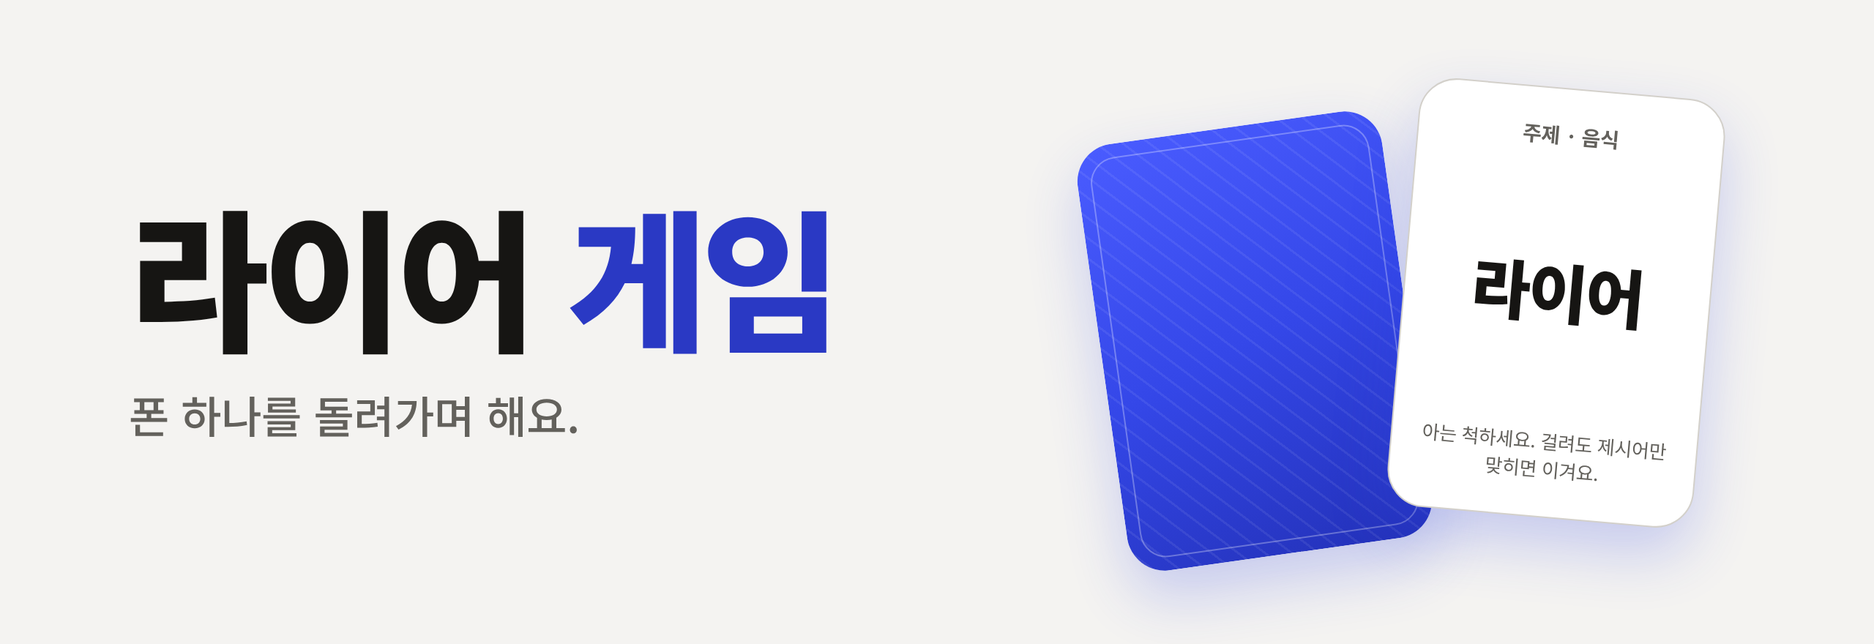
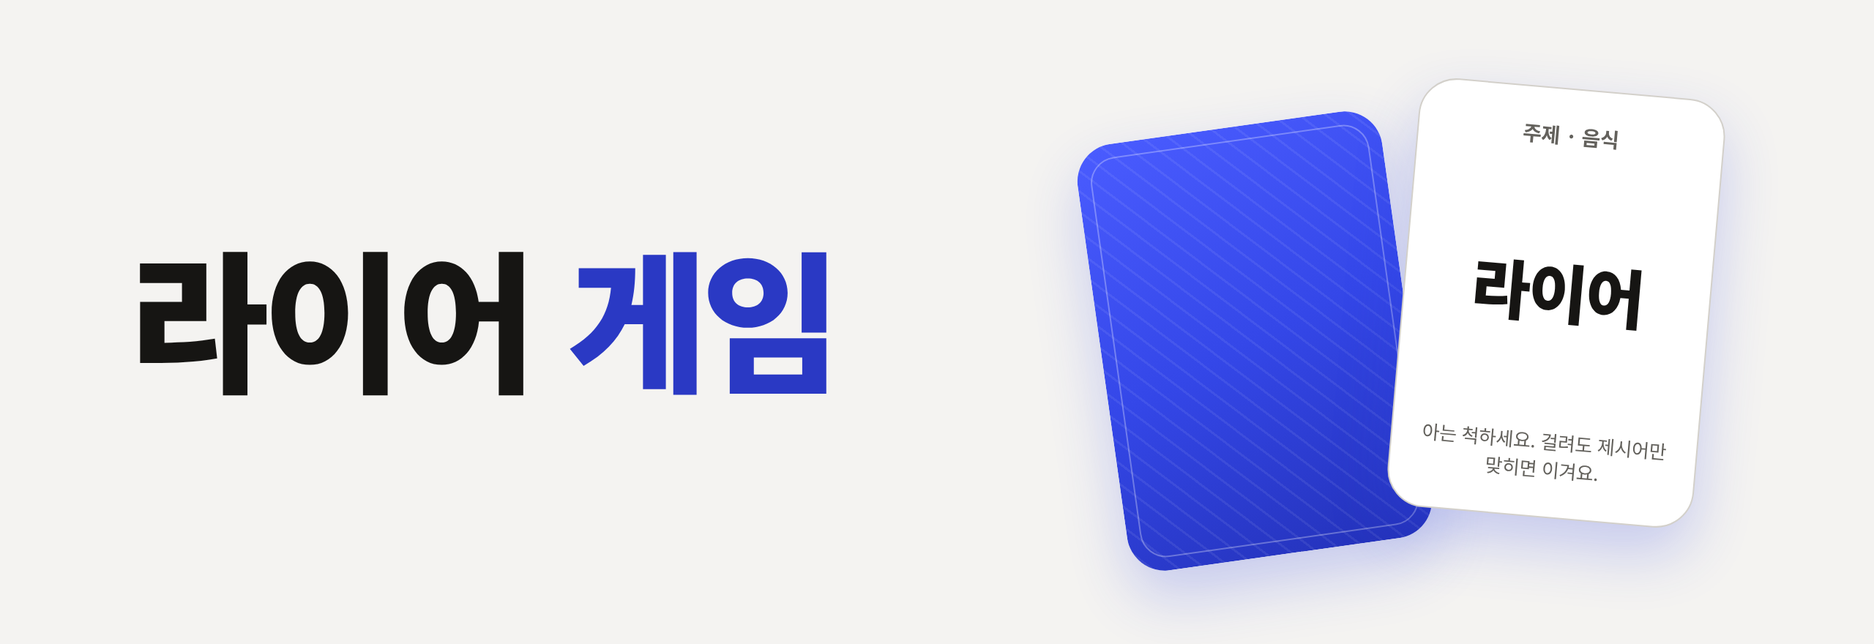
문구를 짧고 담백하게 정리하고 설명을 ⓘ로 옮김
- 제목 아래 태그라인과 꾸밈말, 수사적 질문, 느낌표 제거
- 규칙·주제·진행·점수 제목 옆 ⓘ에 설명을 모음 (아이콘은 작고 선명한 SVG로 교체)
- 용어 통일: 발언 -> 설명, 검거/걸리다 -> 잡다, 찍다 -> 투표
- 설정 라벨 정리: 설명 시간 / 설명 횟수 / 토론 시간
- 전환 애니메이션을 0.1초 이하로 단축

Claude-Session: https://claude.ai/code/session_01N2Wa5YXu4LxH5pypAMPZBK

Changed region(s): [[0.0625, 0.3068, 0.4688, 0.675]]

diff --git a/index.html b/index.html
@@ -100,8 +100,8 @@ textarea{min-height:92px;resize:vertical}
 .bar{position:sticky;bottom:0;margin:auto -20px -24px;padding:22px 20px max(18px,env(safe-area-inset-bottom));margin-bottom:calc(-1 * max(24px,env(safe-area-inset-bottom)));background:linear-gradient(to top,var(--bg) 86%,transparent);display:flex;flex-direction:column;gap:8px}
 .bar .note{text-align:center}
 .switch{display:inline-flex;align-items:center;gap:10px;background:none;border:0;padding:8px 0;min-height:44px;color:var(--sub);font-size:15px;font-weight:600}
-.switch i{position:relative;width:46px;height:28px;border-radius:99px;background:var(--edge);transition:background .15s}
-.switch i::after{content:"";position:absolute;top:3px;left:3px;width:22px;height:22px;border-radius:50%;background:#fff;box-shadow:0 1px 3px rgba(0,0,0,.3);transition:transform .15s}
+.switch i{position:relative;width:46px;height:28px;border-radius:99px;background:var(--edge);transition:background .08s}
+.switch i::after{content:"";position:absolute;top:3px;left:3px;width:22px;height:22px;border-radius:50%;background:#fff;box-shadow:0 1px 3px rgba(0,0,0,.3);transition:transform .08s}
 .switch[aria-checked=true] i{background:var(--accent)}
 .switch[aria-checked=true] i::after{transform:translateX(18px)}
 .head{display:flex;align-items:flex-start;justify-content:space-between;gap:12px}
@@ -190,16 +190,19 @@ textarea{min-height:92px;resize:vertical}
 .r .v{font-variant-numeric:tabular-nums;font-weight:700;white-space:nowrap}
 .r .m{grid-column:1/-1;font-size:13px;color:var(--sub)}
 .r.liar .v{color:var(--danger)} .r.spy .v{color:var(--accent-ink)}
-.hi{display:flex;align-items:center;gap:8px}
-.ib{position:relative;width:24px;height:24px;border-radius:50%;border:1.5px solid var(--sub);background:transparent;color:var(--sub);padding:0;font-family:Georgia,"Times New Roman",serif;font-style:italic;font-weight:700;font-size:15px;line-height:1;letter-spacing:0}
-.ib::after{content:"";position:absolute;inset:-11px}
-.ib[aria-expanded=true]{background:var(--ink);border-color:var(--ink);color:var(--bg)}
+.hi{display:flex;align-items:center;gap:6px}
+.ib{position:relative;width:18px;height:18px;border:0;background:none;padding:0;color:var(--ink);line-height:0}
+.ib svg{width:18px;height:18px;display:block}
+.ib::after{content:"";position:absolute;inset:-13px}
+.ib[aria-expanded=true]{color:var(--accent-ink)}
 .info{margin:0;display:flex;flex-direction:column;background:var(--fill);border-radius:14px;padding:4px 16px}
 .info>div{display:grid;grid-template-columns:minmax(0,1fr) auto;gap:12px;align-items:center;padding:12px 0;border-top:1px solid var(--line)}
 .info>div:first-child{border-top:0}
 .info dt{font-weight:600;font-size:15px}
 .info dt small{display:block;font-weight:400;font-size:13px;color:var(--sub);margin-top:2px}
 .info dd{margin:0;text-align:right;font-weight:700;font-size:15px;white-space:nowrap;font-variant-numeric:tabular-nums}
+@media (prefers-reduced-motion:no-preference){ .info{animation:pop .1s ease-out} }
+@keyframes pop{from{opacity:0;transform:translateY(-3px)}to{opacity:1;transform:none}}
 .gain{color:var(--accent-ink);background:var(--accent-soft);font-weight:700;font-size:13px;padding:2px 7px;border-radius:7px;margin-right:6px}
 .r .m .gain{margin:0 0 0 2px}
 </style>
@@ -347,7 +350,7 @@ function tick(){
   if(!T) return;
   var r=remain(), el=document.getElementById('timer');
   if(el){
-    el.querySelector('.num').textContent=r>0?fmt(r):'시간 끝!';
+    el.querySelector('.num').textContent=r>0?fmt(r):'시간 끝';
     el.querySelector('.track i').style.width=frac()+'%';
     el.classList.toggle('low',r>0&&r<=5);
     el.classList.toggle('done',r===0);
@@ -357,7 +360,7 @@ function tick(){
 function timerHTML(){
   if(!T) return '';
   var r=remain();
-  return '<div class="timer'+(r===0?' done':(r<=5?' low':''))+'" id="timer" role="timer"><div class="num">'+(r>0?fmt(r):'시간 끝!')+'</div><div class="track"><i style="width:'+frac()+'%"></i></div></div>';
+  return '<div class="timer'+(r===0?' done':(r<=5?' low':''))+'" id="timer" role="timer"><div class="num">'+(r>0?fmt(r):'시간 끝')+'</div><div class="track"><i style="width:'+frac()+'%"></i></div></div>';
 }
 function initAudio(){ try{ if(!audio){ var C=window.AudioContext||window.webkitAudioContext; if(C) audio=new C(); } if(audio&&audio.state==='suspended') audio.resume(); }catch(e){} }
 function beep(){
@@ -448,61 +451,84 @@ function summary(){
 }
 function vSetup(){
   var n=S.players.length, mL=maxLiars(n,S.spy), cats=allCats(), hasScore=S.players.some(function(p){return p.score;});
-  var h='<header><div class="head"><h1 class="title" tabindex="-1">라이어 <em>게임</em></h1><button type="button" class="switch" role="switch" aria-checked="'+isDark()+'" data-a="theme">다크 모드<i></i></button></div><p class="lead">폰 하나를 돌려가며 해요.</p></header>';
+  var h='<header><div class="head"><h1 class="title" tabindex="-1">라이어 <em>게임</em></h1><button type="button" class="switch" role="switch" aria-checked="'+isDark()+'" data-a="theme">다크 모드<i></i></button></div></header>';
 
   h+='<section class="sec"><div class="line"><h2>인원</h2><div class="count"><button type="button" class="sq" data-a="pc" data-d="-1" aria-label="한 명 줄이기"'+(n<=MINP?' disabled':'')+'>−</button><b>'+n+'명</b><button type="button" class="sq" data-a="pc" data-d="1" aria-label="한 명 늘리기"'+(n>=MAXP?' disabled':'')+'>+</button></div></div>';
   if(S.namesOpen) h+='<div class="names">'+S.players.map(function(p,i){
       return '<input type="text" id="p'+i+'" data-pi="'+i+'" maxlength="8" value="'+esc(p.name)+'" placeholder="'+(i+1)+'번" aria-label="'+(i+1)+'번 이름">';
-    }).join('')+'</div><p class="note">앉은 순서대로 적어 주세요. 비워 두면 번호로 불러요.</p>';
+    }).join('')+'</div><p class="note">앉은 순서대로 적어 주세요.</p>';
   else h+='<div class="line"><span class="note">'+S.players.map(function(_,i){return nm(i);}).join(', ')+'</span><button type="button" class="text" data-a="names">이름 적기</button></div>';
   h+='</section>';
 
-  h+='<section class="sec"><h2>규칙</h2>'+
+  h+='<section class="sec">'+head('rules','규칙')+infoBox('rules')+
     '<div class="line"><span>모드</span>'+seg('mode',[['basic','기본'],['fool','바보']],S.mode)+'</div>'+
-    '<p class="note">'+(S.mode==='basic'?'라이어는 주제만 알아요.':'라이어는 다른 단어를 받고, 자기가 라이어인 줄 몰라요.')+'</p>'+
     '<div class="line"><span>라이어</span><div class="count"><button type="button" class="sq" data-a="liars" data-d="-1" aria-label="라이어 줄이기"'+(S.liars<=1?' disabled':'')+'>−</button><b>'+S.liars+'명</b><button type="button" class="sq" data-a="liars" data-d="1" aria-label="라이어 늘리기"'+(S.liars>=mL?' disabled':'')+'>+</button></div></div>'+
-    (S.liars+S.spy>=n?'<p class="warn">시민이 한 명도 없는 판이에요. 점수는 안 매겨요.</p>':(S.mode==='fool'&&S.liars*2>=n?'<p class="warn">라이어가 절반 이상이면 가짜 단어가 다수가 돼요.</p>':''))+
+    (S.liars+S.spy>=n?'<p class="warn">시민이 없어 점수를 매기지 않아요.</p>':(S.mode==='fool'&&S.liars*2>=n?'<p class="warn">라이어가 절반 이상이면 누가 라이어인지 가리기 어려워요.</p>':''))+
     '<div class="line"><span>스파이</span><div class="count"><button type="button" class="sq" data-a="spies" data-d="-1" aria-label="스파이 줄이기"'+(S.spy<=0?' disabled':'')+'>−</button><b>'+S.spy+'명</b><button type="button" class="sq" data-a="spies" data-d="1" aria-label="스파이 늘리기"'+(S.spy>=n-S.liars?' disabled':'')+'>+</button></div></div>'+
-    (S.spy?'<p class="note">스파이는 제시어를 알지만 라이어 편이에요.</p>':'')+'</section>';
+    '</section>';
 
   var names=Object.keys(cats).sort(function(x,y){ return (S.custom[y]?1:0)-(S.custom[x]?1:0); });
   var onN=names.filter(function(c){return S.cats.indexOf(c)>=0;}).length;
-  h+='<section class="sec"><div class="line"><h2>주제</h2><button type="button" class="text" data-a="cats-toggle">'+(S.catsOpen?'접기':'고르기')+'</button></div>'+
-    '<p class="note">'+names.length+'개 중 '+(onN?onN+'개에서':'전부에서')+' 무작위로 나와요.</p>';
+  h+='<section class="sec"><div class="line">'+head('topics','주제')+'<button type="button" class="text" data-a="cats-toggle">'+(S.catsOpen?'접기':'고르기')+'</button></div>'+infoBox('topics')+
+    '<p class="note">'+(onN?names.length+'개 중 '+onN+'개 선택':'선택한 주제가 없으면 전체에서 나와요.')+'</p>';
   if(S.catsOpen) h+='<div class="line end"><button type="button" class="text" data-a="cats-all">전체 선택</button><button type="button" class="text" data-a="cats-none">전체 해제</button></div><div class="tiles">'+names.map(function(c){
     var on=S.cats.indexOf(c)>=0, cu=!!S.custom[c];
     return '<span class="tile'+(on?' on':'')+'"><button type="button" data-a="cat" data-c="'+esc(c)+'" aria-pressed="'+on+'">'+(on?'✓ ':'')+esc(c)+'</button>'+(cu?'<button type="button" class="rm" data-a="del-cat" data-c="'+esc(c)+'" aria-label="'+esc(c)+' 지우기">×</button>':'')+'</span>';
   }).join('')+'</div>';
   if(S.catOpen) h+='<div class="form">'+
-    '<input type="text" id="ccName" maxlength="14" placeholder="주제 (예: 우리 과 교수님)" value="'+esc(S.draft.name)+'" aria-label="주제 이름">'+
-    (AI?'<button type="button" class="btn sm" data-a="ai-fill"'+(S.aiBusy?' disabled':'')+'>'+(S.aiBusy?'AI가 채우는 중…':'AI로 단어 채우기')+'</button>':'<p class="note">AI로 단어 채우기는 Claude에서 열었을 때만 쓸 수 있어요.</p>')+
-    '<textarea id="ccWords" placeholder="단어를 쉼표나 줄바꿈으로 나눠서 4개 이상" aria-label="단어 목록">'+esc(S.draft.words)+'</textarea>'+
+    '<input type="text" id="ccName" maxlength="14" placeholder="주제 이름 (예: 우리 과 교수님)" value="'+esc(S.draft.name)+'" aria-label="주제 이름">'+
+    (AI?'<button type="button" class="btn sm" data-a="ai-fill"'+(S.aiBusy?' disabled':'')+'>'+(S.aiBusy?'채우는 중…':'AI로 단어 채우기')+'</button>':'')+
+    '<textarea id="ccWords" placeholder="단어 4개 이상, 쉼표나 줄바꿈으로 구분" aria-label="단어 목록">'+esc(S.draft.words)+'</textarea>'+
     (S.draftErr?'<p class="warn">'+esc(S.draftErr)+'</p>':'')+
-    '<button type="button" class="btn sm" data-a="add-cat">주제 저장</button><button type="button" class="text" data-a="cat-close">닫기</button></div>';
-  else h+='<button type="button" class="btn sm" data-a="cat-open">+ 주제 직접 만들기'+(AI?' · AI로 채우기':'')+'</button>';
+    '<button type="button" class="btn sm" data-a="add-cat">저장</button><button type="button" class="text" data-a="cat-close">닫기</button></div>';
+  else h+='<button type="button" class="btn sm" data-a="cat-open">+ 주제 만들기</button>';
   h+='</section>';
 
-  h+='<section class="sec"><h2>시간</h2>'+
-    '<div class="line"><span>한 사람 발언</span>'+seg('speakSec',[[0,'끔'],[20,'20초'],[30,'30초'],[45,'45초'],[60,'60초']],S.speakSec)+'</div>'+
-    '<div class="line"><span>설명 바퀴</span>'+seg('laps',[[1,'1바퀴'],[2,'2바퀴']],S.laps)+'</div>'+
-    '<div class="line"><span>토론</span>'+seg('discussSec',[[0,'끔'],[60,'1분'],[120,'2분'],[180,'3분']],S.discussSec)+'</div></section>';
+  h+='<section class="sec">'+head('time','진행')+infoBox('time')+
+    '<div class="line"><span>설명 시간</span>'+seg('speakSec',[[0,'없음'],[20,'20초'],[30,'30초'],[45,'45초'],[60,'60초']],S.speakSec)+'</div>'+
+    '<div class="line"><span>설명 횟수</span>'+seg('laps',[[1,'1바퀴'],[2,'2바퀴']],S.laps)+'</div>'+
+    '<div class="line"><span>토론 시간</span>'+seg('discussSec',[[0,'생략'],[60,'1분'],[120,'2분'],[180,'3분']],S.discussSec)+'</div></section>';
 
-  h+='<section class="sec"><div class="line">'+scoreHead()+(hasScore?'<button type="button" class="text" data-a="reset-score">'+(S.quit?'정말 지울까요? 한 번 더':'점수 지우기')+'</button>':'')+'</div>'+scoreInfo()+(hasScore?scoreRows(null):'<p class="note">아직 점수가 없어요. 한 판 끝나면 여기에 쌓여요.</p>')+'</section>';
+  h+='<section class="sec"><div class="line">'+head('score','점수')+(hasScore?'<button type="button" class="text" data-a="reset-score">'+(S.quit?'한 번 더 누르면 지워요':'점수 지우기')+'</button>':'')+'</div>'+infoBox('score')+(hasScore?scoreRows(null):'<p class="note">아직 점수가 없어요.</p>')+'</section>';
 
   h+='<div class="bar"><p class="note">'+summary()+'</p><button type="button" class="btn go" data-a="start">시작</button></div>';
   return h;
 }
-function scoreHead(){
-  return '<h2 class="hi">점수<button type="button" class="ib" data-a="info" aria-expanded="'+!!S.info+'" aria-label="점수 계산 방법 '+(S.info?'닫기':'보기')+'">i</button></h2>';
+var INFO={
+  rules:[
+    ['기본 모드','라이어는 주제만 알고 제시어는 몰라요.'],
+    ['바보 모드','라이어는 다른 단어를 받고, 자기가 라이어인 줄 몰라요.'],
+    ['라이어','제시어를 몰라요. 잡혀도 제시어를 맞히면 이겨요.'],
+    ['스파이','제시어를 알지만 라이어 편이에요. 라이어가 누구인지는 몰라요.'],
+    ['투표','표를 가장 많이 받은 사람의 정체를 공개해요. 동점이면 동점인 사람을 두고 다시 투표하고, 다시 동점이면 라이어가 이겨요.']
+  ],
+  topics:[
+    ['주제 고르기','판마다 선택한 주제 중 하나가 무작위로 나와요.'],
+    ['주제 만들기','주제 이름과 단어 4개 이상을 적어요. 이 폰에 저장돼요.'],
+    ['AI로 단어 채우기','주제 이름을 적으면 단어를 채워요. Claude에서 열었을 때만 쓸 수 있어요.']
+  ],
+  time:[
+    ['설명 시간','한 명이 설명하는 시간이에요. 끝나면 소리와 진동으로 알려요.'],
+    ['설명 횟수','한 사람이 설명하는 횟수예요.'],
+    ['토론 시간','설명이 끝난 뒤 투표 전까지의 시간이에요.']
+  ],
+  score:[
+    ['시민 승리','라이어를 잡았고, 라이어가 제시어를 틀렸을 때','시민 +1'],
+    ['라이어 역전승','라이어가 잡혔지만 제시어를 맞혔을 때','라이어 +1<br>스파이 +1'],
+    ['라이어 승리','라이어가 아닌 사람을 지목했거나, 재투표도 동점일 때','라이어 +2<br>스파이 +1'],
+    ['시민이 없는 판','라이어와 스파이뿐일 때','없음'],
+    ['점수 보관','이 폰에 저장돼요.']
+  ]
+};
+function head(key,title){
+  var on=S.info===key;
+  return '<h2 class="hi">'+title+'<button type="button" class="ib" data-a="info" data-k="'+key+'" aria-expanded="'+on+'" aria-label="'+title+' 설명 '+(on?'닫기':'보기')+'"><svg viewBox="0 0 18 18" aria-hidden="true"><circle cx="9" cy="9" r="7.6" fill="none" stroke="currentColor" stroke-width="1.6"/><circle cx="9" cy="5.6" r="1.1" fill="currentColor"/><path d="M9 8.3v4.6" stroke="currentColor" stroke-width="1.7" stroke-linecap="round"/></svg></button></h2>';
 }
-function scoreInfo(){
-  if(!S.info) return '';
-  return '<dl class="info">'+
-    '<div><dt>시민 승리<small>라이어를 잡았고, 라이어가 제시어를 틀렸을 때</small></dt><dd>시민 +1</dd></div>'+
-    '<div><dt>라이어 역전승<small>라이어가 잡혔지만 제시어를 맞혔을 때</small></dt><dd>라이어 +1<br>스파이 +1</dd></div>'+
-    '<div><dt>라이어 승리<small>라이어가 아닌 사람을 지목했거나, 재투표도 동점일 때</small></dt><dd>라이어 +2<br>스파이 +1</dd></div>'+
-    '<div><dt>시민이 없는 판<small>라이어와 스파이뿐이면 점수를 매기지 않아요</small></dt><dd>없음</dd></div>'+
-    '</dl><p class="note">점수는 이 폰에 쌓이고, 점수 지우기를 누르기 전까지 남아요.</p>';
+function infoBox(key){
+  if(S.info!==key) return '';
+  return '<dl class="info">'+INFO[key].map(function(r){
+    return '<div><dt>'+r[0]+'<small>'+r[1]+'</small></dt>'+(r[2]?'<dd>'+r[2]+'</dd>':'')+'</div>';
+  }).join('')+'</dl>';
 }
 function scoreRows(deltas){
   var rows=S.players.map(function(p,i){return {i:i,s:p.score||0};}).sort(function(a,b){return b.s-a.s||a.i-b.i;});
@@ -513,56 +539,56 @@ function scoreRows(deltas){
 function wordSize(w){ return w.length<=4?'':(w.length<=7?' m':' s'); }
 function cardFace(i){
   var r=R.roles[i], fool=S.mode==='fool', kind='주제 · '+esc(R.cat);
-  if(r==='liar'&&!fool) return '<div class="kind">'+kind+'</div><div class="word">라이어</div><div class="tip">아는 척하세요. 걸려도 제시어만 맞히면 이겨요.</div>';
-  if(r==='spy') return '<div class="kind">'+kind+' · 스파이</div><div class="word'+wordSize(R.word)+'">'+esc(R.word)+'</div><div class="tip">라이어 편이에요. 라이어가 안 잡히게 도와주세요.</div>';
+  if(r==='liar'&&!fool) return '<div class="kind">'+kind+'</div><div class="word">라이어</div><div class="tip">잡혀도 제시어를 맞히면 이겨요.</div>';
+  if(r==='spy') return '<div class="kind">'+kind+' · 스파이</div><div class="word'+wordSize(R.word)+'">'+esc(R.word)+'</div><div class="tip">라이어 편이에요.</div>';
   var w=(r==='liar')?R.fake:R.word;
-  return '<div class="kind">'+kind+'</div><div class="word'+wordSize(w)+'">'+esc(w)+'</div><div class="tip">'+(fool?'누군가는 다른 단어를 받았어요. 나일 수도 있어요.':'라이어는 모르게, 우리 편은 알게.')+'</div>';
+  return '<div class="kind">'+kind+'</div><div class="word'+wordSize(w)+'">'+esc(w)+'</div><div class="tip">'+(fool?'내가 라이어일 수도 있어요.':'')+'</div>';
 }
 function vReveal(){
   var i=R.ri, n=S.players.length, last=i===n-1, ready='다 봤어요';
   return topBar(prog('카드 확인',i+1,n))+
     '<div class="stage mid"><h1 class="name" tabindex="-1">'+nm(i)+'</h1>'+
     '<div class="card" id="peek" role="button" tabindex="0" aria-label="누르고 있는 동안 카드가 보여요">'+
-      '<div class="back"><b>꾹 누르면<br>보여요</b><span>손을 떼면 다시 덮여요</span></div>'+
+      '<div class="back"><b>누르고 있는 동안<br>보여요</b></div>'+
       '<div class="face">'+cardFace(i)+'</div></div>'+
     '<p class="note">'+jo(i,'만','만')+' 보세요.</p></div>'+
-    '<div class="acts"><button type="button" class="btn" id="seenBtn" data-a="next-reveal" data-ready="'+ready+'"'+(R.seen?'':' disabled')+'>'+(R.seen?ready:'카드를 먼저 확인해요')+'</button>'+
-    '<p class="note">'+(last?'누른 다음 폰을 가운데 두세요.':'누른 다음 '+jo(i+1,'에게','에게')+' 넘겨요.')+'</p></div>';
+    '<div class="acts"><button type="button" class="btn" id="seenBtn" data-a="next-reveal" data-ready="'+ready+'"'+(R.seen?'':' disabled')+'>'+(R.seen?ready:'카드를 먼저 보세요')+'</button>'+
+    '<p class="note">'+(last?'폰을 가운데에 두세요.':jo(i+1,'에게','에게')+' 넘겨 주세요.')+'</p></div>';
 }
 function orderHTML(cur){
   return '<p class="order">'+R.order.map(function(p){ return cur===p?'<b>'+nm(p)+'</b>':nm(p); }).join(' → ')+'</p>';
 }
 function vReady(){
   var p=R.order[0];
-  return topBar(esc(R.cat))+'<div class="stage"><div><h1 class="name xl" tabindex="-1">'+nm(p)+'부터</h1><p class="lead">주제는 '+esc(R.cat)+'. 한 문장씩 돌아가며 설명해요.</p></div>'+orderHTML(p)+'</div>'+
+  return topBar(esc(R.cat))+'<div class="stage"><div><h1 class="name xl" tabindex="-1">'+nm(p)+'부터</h1><p class="lead">한 문장씩 돌아가며 설명해요.</p></div>'+orderHTML(p)+'</div>'+
     '<div class="acts"><button type="button" class="btn go" data-a="begin">설명 시작</button></div>';
 }
 function vSpeak(){
   var p=R.turns[R.ti], last=R.ti===R.turns.length-1, n=S.players.length;
   return topBar(prog(R.cat+(S.laps>1?' · '+(Math.floor(R.ti/n)+1)+'바퀴':''),R.ti+1,R.turns.length))+
-    '<div class="stage"><div><h1 class="name" tabindex="-1">'+nm(p)+'</h1><p class="lead">한 문장으로 설명해요.</p></div>'+timerHTML()+orderHTML(p)+'</div>'+
+    '<div class="stage"><div><h1 class="name" tabindex="-1">'+nm(p)+'</h1></div>'+timerHTML()+orderHTML(p)+'</div>'+
     '<div class="acts"><button type="button" class="btn" data-a="next-speak">'+(last?(S.discussSec?'토론 시작':'투표 시작'):'다음 · '+nm(R.turns[R.ti+1]))+'</button>'+
-    '<div class="row">'+(R.ti>0?'<button type="button" class="text" data-a="prev-speak">이전 사람으로</button>':'<span></span>')+(last?'':'<button type="button" class="text" data-a="skip-vote">'+(S.skip?'남은 사람 건너뛸까요? 한 번 더':'바로 투표')+'</button>')+'</div></div>';
+    '<div class="row">'+(R.ti>0?'<button type="button" class="text" data-a="prev-speak">이전</button>':'<span></span>')+(last?'':'<button type="button" class="text" data-a="skip-vote">'+(S.skip?'한 번 더 누르면 투표':'바로 투표')+'</button>')+'</div></div>';
 }
 function vDiscuss(){
-  return topBar(esc(R.cat))+'<div class="stage"><div><h1 class="name" tabindex="-1">누가 라이어일까?</h1><p class="lead">충분히 떠들었으면 투표해요.</p></div>'+timerHTML()+'</div>'+
+  return topBar(esc(R.cat))+'<div class="stage"><div><h1 class="name" tabindex="-1">토론</h1></div>'+timerHTML()+'</div>'+
     '<div class="acts"><button type="button" class="btn go" data-a="to-vote">투표 시작</button></div>';
 }
 function vVote(){
   var v=R.v, i=v.vi, n=S.players.length, opts;
   var h=topBar(prog(v.round===2?'재투표':'투표',i+1,n))+'<div class="stage"><h1 class="name" tabindex="-1">'+nm(i)+'</h1>';
-  if(!v.open) return h+'<p class="lead">'+jo(i,'에게','에게')+' 폰을 넘겨 주세요. 누구를 찍었는지는 끝나고 공개돼요.</p></div>'+
-    '<div class="acts"><button type="button" class="btn" data-a="open-vote">'+jo(i,'이에요','예요')+', 투표할게요</button></div>';
+  if(!v.open) return h+'<p class="lead">'+jo(i,'에게','에게')+' 폰을 넘겨 주세요.'+(i===0?' 누구에게 투표했는지는 끝나고 공개돼요.':'')+'</p></div>'+
+    '<div class="acts"><button type="button" class="btn" data-a="open-vote">투표하기</button></div>';
   opts=voteOptions(i);
-  return h+'<p class="lead">'+(v.round===2?'동점인 사람 중에 ':'')+'누가 라이어 같아요?</p><div class="opts'+(opts.length>5?' two':'')+'">'+opts.map(function(j){
+  return h+'<p class="lead">'+(v.round===2?'동점인 사람 중에서 고르세요.':'라이어를 고르세요.')+'</p><div class="opts'+(opts.length>5?' two':'')+'">'+opts.map(function(j){
       return '<button type="button" class="opt" data-a="pick" data-j="'+j+'" aria-pressed="'+(v.pick===j)+'">'+nm(j)+'</button>';
-    }).join('')+'</div></div><div class="acts stick"><button type="button" class="btn" data-a="cast"'+(v.pick===null?' disabled':'')+'>'+(v.pick===null?'한 명을 골라요':nm(v.pick)+'에게 투표')+'</button></div>';
+    }).join('')+'</div></div><div class="acts stick"><button type="button" class="btn" data-a="cast"'+(v.pick===null?' disabled':'')+'>'+(v.pick===null?'투표':nm(v.pick)+'에게 투표')+'</button></div>';
 }
 function vTally(){
   var t=R.tally, n=S.players.length, tie=t.top.length>1;
   var rows=S.players.map(function(_,i){return i;}).filter(function(i){return t.counts[i]>0;}).sort(function(a,b){return t.counts[b]-t.counts[a]||a-b;});
-  var h=topBar('투표 결과')+'<div class="stage"><div><h1 class="name" tabindex="-1">'+(tie?'동점!':nm(R.accused)+' 지목')+'</h1><p class="lead">'+
-    (tie?(t.round===1?'동점인 사람끼리 한 번 더 투표해요.':'또 동점이에요. 라이어가 빠져나갔어요.'):'진짜 라이어일까요?')+'</p></div>'+
+  var h=topBar('투표 결과')+'<div class="stage"><div><h1 class="name" tabindex="-1">'+(tie?'동점':nm(R.accused)+' 지목')+'</h1>'+
+    (tie?'<p class="lead">'+(t.round===1?'동점인 사람을 두고 다시 투표해요.':'다시 동점이라 라이어가 이겼어요.')+'</p>':'')+'</div>'+
     '<div class="tally">'+rows.map(function(i){
       return '<div class="trow'+(t.top.indexOf(i)>=0?' top':'')+'"><span class="n">'+nm(i)+'</span><span class="c">'+t.counts[i]+'표</span><div class="b"><i style="width:'+(t.counts[i]/n*100)+'%"></i></div></div>';
     }).join('')+'</div></div><div class="acts">';
@@ -573,26 +599,26 @@ function vTally(){
 }
 function vGuess(){
   var g=R.g, a=R.accused;
-  var h=topBar('라이어 검거')+'<div class="stage"><h1 class="name" tabindex="-1">'+jo(a,'은','는')+' 라이어!</h1>';
-  if(!g.open) return h+'<p class="lead">아직 안 끝났어요. 제시어를 맞히면 역전이에요. '+jo(a,'에게','에게')+' 폰을 넘겨 주세요.</p></div>'+
+  var h=topBar('정체 공개')+'<div class="stage"><h1 class="name" tabindex="-1">'+jo(a,'은','는')+' 라이어</h1>';
+  if(!g.open) return h+'<p class="lead">제시어를 맞히면 라이어가 이겨요. '+jo(a,'에게','에게')+' 폰을 넘겨 주세요.</p></div>'+
     '<div class="acts"><button type="button" class="btn go" data-a="open-guess">제시어 맞히기</button></div>';
-  return h+'<p class="lead">'+esc(R.cat)+' 중에 뭐였을까요? 기회는 한 번이에요.</p><div class="opts two words">'+R.words.map(function(w,k){
+  return h+'<p class="lead">제시어를 고르세요. 기회는 한 번이에요.</p><div class="opts two words">'+R.words.map(function(w,k){
       return '<button type="button" class="opt" data-a="gpick" data-k="'+k+'" aria-pressed="'+(g.pick===k)+'">'+esc(w)+'</button>';
-    }).join('')+'</div></div><div class="acts stick"><button type="button" class="btn go" data-a="gcast"'+(g.pick===null?' disabled':'')+'>'+(g.pick===null?'단어를 골라요':esc(R.words[g.pick])+', 확정')+'</button></div>';
+    }).join('')+'</div></div><div class="acts stick"><button type="button" class="btn go" data-a="gcast"'+(g.pick===null?' disabled':'')+'>'+(g.pick===null?'확정':esc(R.words[g.pick])+' 확정')+'</button></div>';
 }
 function vResult(){
   var o=R.outcome, a=R.accused, title, sub, roleName={liar:'라이어',spy:'스파이',citizen:'시민'};
-  if(!R.citizens&&R.roles.every(function(r){return r==='liar';})){ title='전원 라이어!'; sub='시민은 처음부터 없었어요.'+(o==='steal'?' 그 와중에 '+jo(a,'이','가')+' 제시어를 맞혔어요.':''); }
-  else if(o==='caught'){ title=R.citizens?'시민 승리':'라이어 검거'; sub=nm(a)+' 검거 완료. 제시어도 틀렸어요.'+(R.g&&R.g.pick!==null?' 고른 단어는 '+esc(R.words[R.g.pick])+'.':''); }
+  if(!R.citizens&&R.roles.every(function(r){return r==='liar';})){ title='전원 라이어'; sub=(o==='steal'?jo(a,'이','가')+' 제시어를 맞혔어요.':''); }
+  else if(o==='caught'){ title=R.citizens?'시민 승리':'라이어 패배'; sub=jo(a,'이','가')+' 잡혔고 제시어도 틀렸어요.'+(R.g&&R.g.pick!==null?' 고른 단어: '+esc(R.words[R.g.pick]):''); }
   else if(o==='steal'){ title='라이어 역전승'; sub=jo(a,'이','가')+' 잡혔지만 제시어를 맞혔어요.'; }
-  else { title='라이어 승리'; sub=a===null?'아무도 못 잡았어요.':jo(a,'은','는')+' '+(R.roles[a]==='citizen'?'시민이었어요.':'스파이였어요.'); }
-  var h='<div><h1 class="name xl '+(o==='caught'?'town':'liar')+'" tabindex="-1">'+title+'</h1><p class="lead">'+sub+'</p></div>';
+  else { title='라이어 승리'; sub=a===null?'재투표도 동점이었어요.':jo(a,'은','는')+' '+(R.roles[a]==='citizen'?'시민이었어요.':'스파이였어요.'); }
+  var h='<div><h1 class="name xl '+(o==='caught'?'town':'liar')+'" tabindex="-1">'+title+'</h1>'+(sub?'<p class="lead">'+sub+'</p>':'')+'</div>';
   h+='<div class="answer"><div><span>'+esc(R.cat)+'</span><b>'+esc(R.word)+'</b></div>'+(R.fake?'<div><span>라이어가 받은 단어</span><b>'+esc(R.fake)+'</b></div>':'')+'</div>';
   h+='<section class="sec"><h2>정체</h2><div class="rows">'+S.players.map(function(_,i){
     var r=R.roles[i], vt=R.finalVotes&&R.finalVotes[i]!==undefined?R.finalVotes[i]:null;
     return '<div class="r '+r+'"><span class="n">'+nm(i)+'</span><span class="v">'+roleName[r]+'</span><span class="m">'+(vt!==null?nm(vt)+'에게 투표':'투표 안 함')+(R.deltas[i]?' · <span class="gain">+'+R.deltas[i]+'점</span>':'')+'</span></div>';
   }).join('')+'</div></section>';
-  h+='<section class="sec">'+scoreHead()+scoreInfo()+scoreRows(R.deltas)+(R.citizens?'':'<p class="note">시민이 없는 판이라 이번 판은 점수가 없어요.</p>')+'</section>';
+  h+='<section class="sec">'+head('score','점수')+infoBox('score')+scoreRows(R.deltas)+(R.citizens?'':'<p class="note">시민이 없어 점수를 매기지 않아요.</p>')+'</section>';
   h+='<div class="acts"><button type="button" class="btn go" data-a="again">한 판 더</button><button type="button" class="btn sm" data-a="to-setup">설정 바꾸기</button></div>';
   return h;
 }
@@ -622,7 +648,7 @@ var ACT={
     clamp();
   },
   'theme':function(){ S.theme=isDark()?'light':'dark'; applyTheme(); },
-  'info':function(){ S.info=!S.info; },
+  'info':function(d){ S.info=S.info===d.k?null:d.k; },
   'names':function(){ S.namesOpen=true; },
   'set':function(d){
     var k=d.k, v=d.v;
@@ -638,21 +664,21 @@ var ACT={
   'cats-none':function(){ S.cats=[]; },
   'ai-fill':function(){
     var topic=S.draft.name.trim();
-    if(!topic){ S.draftErr='주제를 먼저 적어 주세요.'; return; }
+    if(!topic){ S.draftErr='주제 이름을 적어 주세요.'; return; }
     if(!AI||S.aiBusy) return;
     S.aiBusy=true; S.draftErr='';
     var done=function(){ S.aiBusy=false; if(S.screen==='setup') render(); };
     AI('라이어 게임에 쓸 제시어를 만들어 줘.\n주제: '+topic+'\n조건: 이 주제에 속하는 한국어 단어나 짧은 명사구 20개. 한국의 20~30대 친구들이 대부분 아는 것만. 서로 겹치거나 너무 비슷한 것은 빼고, 하나는 12자 이내. 비속어와 혐오 표현은 빼.\n출력: JSON 문자열 배열 하나만. 다른 말은 쓰지 마.',{modelTier:'quick',cache:false}).then(function(res){
       var got=parseWords(res&&res.text||''), have=parseWords(S.draft.words), seen={};
       var all=have.concat(got).filter(function(w){ if(seen[w]) return false; seen[w]=1; return true; });
-      if(got.length<4) S.draftErr='단어를 못 받아 왔어요. 주제를 바꿔서 다시 해 보세요.';
+      if(got.length<4) S.draftErr='단어를 만들지 못했어요. 주제 이름을 바꿔 보세요.';
       else { S.draft.words=all.join(', '); S.draftErr=''; }
       done();
     },function(e){
       var c=e&&e.code;
-      if(c==='not_granted'){ AI=null; S.draftErr='AI 사용을 허용하지 않아서 직접 적어야 해요.'; }
-      else if(c==='rate_limited') S.draftErr='잠깐 쉬었다가 다시 눌러 주세요.';
-      else S.draftErr='AI가 응답하지 않았어요. 인터넷을 확인하고 다시 해 보세요.';
+      if(c==='not_granted'){ AI=null; S.draftErr='AI를 쓸 수 없어요. 단어를 직접 적어 주세요.'; }
+      else if(c==='rate_limited') S.draftErr='잠시 후 다시 시도해 주세요.';
+      else S.draftErr='응답이 없어요. 인터넷 연결을 확인해 주세요.';
       done();
     });
   },
@@ -740,7 +766,7 @@ function start(data){
   if(data&&data.S){ for(k in data.S) S[k]=data.S[k]; R=data.R||null; }
   else if(rd&&rd.R&&VIEWS[rd.screen]&&Date.now()-rd.at<3*3600*1000&&rd.R.roles&&rd.R.roles.length===(S.players||[]).length){ R=rd.R; S.screen=rd.screen; }
   if(!Array.isArray(S.used)) S.used=[];
-  S.quit=false; S.skip=false; S.info=false;
+  S.quit=false; S.skip=false; S.info=null;
   if(S.theme!=='dark'&&S.theme!=='light') S.theme='auto';
   applyTheme();
   if(!Array.isArray(S.players)||S.players.length<MINP) S.players=defaults().players;

diff --git a/tests/flow.test.js b/tests/flow.test.js
@@ -112,7 +112,7 @@ assert.strictEqual(r.roles.filter((x) => x === 'citizen').length, 0);
 assert.strictEqual(r.gains, 0, '시민 없는 판은 점수 없음');
 
 r = play({ set: { mode: 'basic' }, spies: -2, liars: 9, target: voteNext });
-assert.strictEqual(r.title, '전원 라이어!'); assert.strictEqual(r.gains, 0);
+assert.strictEqual(r.title, '전원 라이어'); assert.strictEqual(r.gains, 0);
 
 click('start');
 boot();

diff --git a/README.md b/README.md
@@ -49,7 +49,7 @@
 
 1. **인원을 정합니다.** 이름은 안 적어도 됩니다. 그러면 1번, 2번으로 부릅니다.
 2. **한 명씩 카드를 봅니다.** 카드는 누르고 있는 동안만 보이고, 손을 떼면 덮입니다.
-3. **1번부터 돌아가며 한 문장씩 설명합니다.** 발언 타이머가 돕니다.
+3. **1번부터 돌아가며 한 문장씩 설명합니다.** 설명 시간 타이머가 돕니다.
 4. **토론하고 비밀 투표를 합니다.** 폰을 돌려가며 한 명씩 찍습니다.
 5. **지목된 사람의 정체를 공개합니다.** 라이어가 잡혀도 제시어를 맞히면 역전합니다.
 
@@ -77,13 +77,13 @@
 
 기본 주제가 48개, 주제마다 단어가 20개씩 들어 있습니다. 음식, 편의점, 술과 안주, 여행 중, 캠핑과 펜션, 학교, 회사, 군대, 연애, 게임, 초능력과 판타지 같은 것들입니다. 설정에서 **고르기**를 눌러 나올 주제를 정합니다.
 
-**주제 직접 만들기**에서 단어 4개 이상으로 우리끼리만 아는 주제를 만들 수 있습니다.
+**주제 만들기**에서 단어 4개 이상으로 우리끼리만 아는 주제를 만들 수 있습니다.
 
 ### AI로 단어 채우기
 
 주제 이름만 적고 **AI로 단어 채우기**를 누르면 단어 스무 개 남짓이 채워집니다. 채워진 목록은 저장하기 전에 고칠 수 있습니다.
 
-이 버튼은 게임을 Claude 아티팩트로 열었을 때만 나옵니다. 아티팩트가 주는 `claude.use("sample")`로 Claude에게 묻기 때문입니다. `index.html`을 그냥 열면 버튼 대신 안내 문구가 보이고, 나머지 기능은 똑같이 동작합니다.
+이 버튼은 게임을 Claude 아티팩트로 열었을 때만 나옵니다. 아티팩트가 주는 `claude.use("sample")`로 Claude에게 묻기 때문입니다. 다른 곳에서 열면 버튼이 보이지 않고, 나머지 기능은 똑같이 동작합니다.
 
 ## 개발
 
@@ -111,6 +111,7 @@ node tests/flow.test.js
 - 글꼴은 Pretendard입니다. 불러올 수 없는 환경에서는 기기의 기본 한글 고딕으로 보입니다.
 - 카드 앞면은 역할과 상관없이 똑같이 생겼습니다. 색이나 모양으로 정체가 새지 않습니다.
 - 진행 화면마다 이름 하나, 숫자 하나, 버튼 하나만 둡니다. 버튼은 항상 화면 맨 아래 같은 자리에 있습니다.
+- 규칙, 주제, 진행, 점수 제목 옆의 ⓘ를 누르면 설명이 펼쳐집니다. 화면에는 꼭 필요한 문구만 둡니다.
 - 화면이 바뀐 직후 0.35초 동안은 탭을 받지 않습니다. 이전 화면을 누르려던 손가락이 다음 화면을 누르는 일을 막습니다.
 - 다크 모드는 배경이 완전한 검정입니다. 처음에는 기기 설정을 따르고, 설정 화면 오른쪽 위 스위치로 바꾸면 그 폰에 기억됩니다.
 
